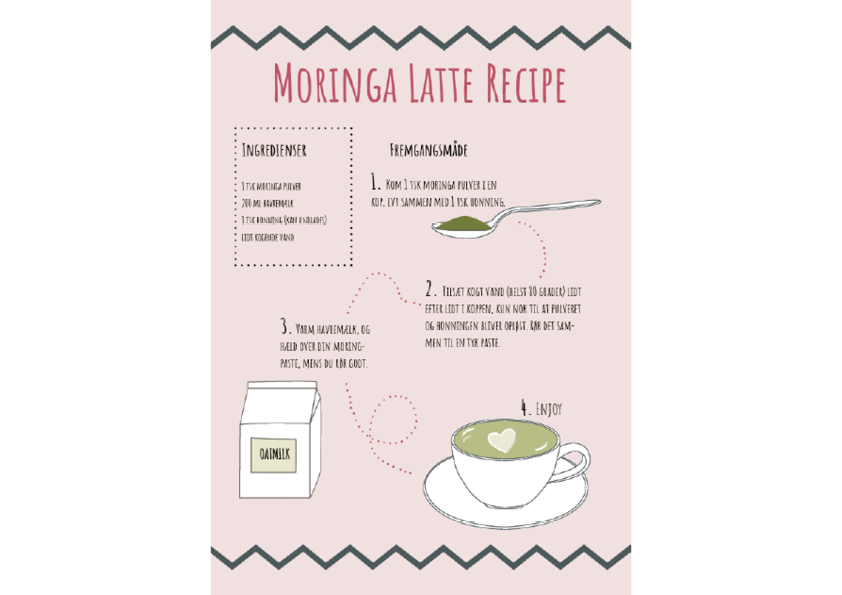
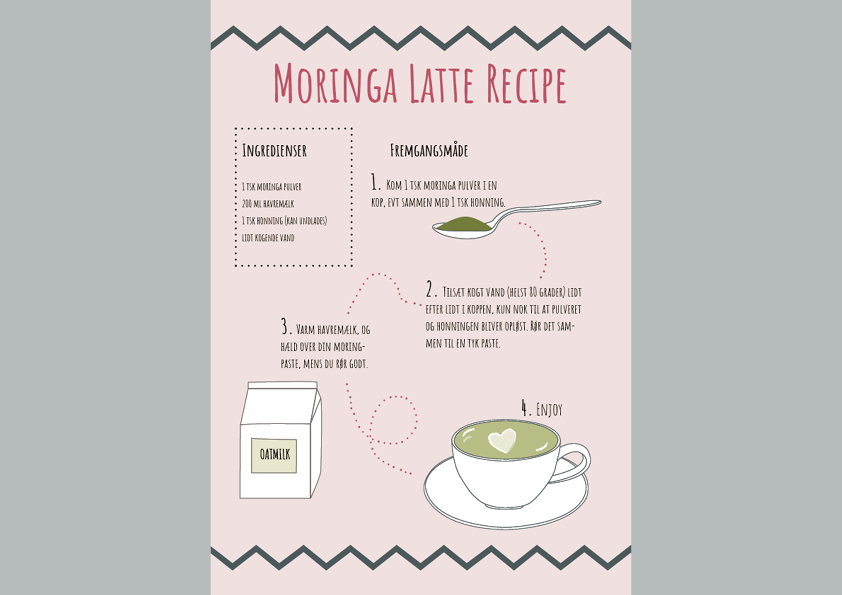
hsfjfd

diff --git a/index.html b/index.html
@@ -71,28 +71,30 @@
 
         </section>
         <section id="opskrift/fordele" class="row">
-            <div id="carouselExampleIndicators" class="carousel slide" data-ride="carousel">
-                <ol class="carousel-indicators">
-                    <li data-target="#carouselExampleIndicators" data-slide-to="0" class="active"></li>
-                    <li data-target="#carouselExampleIndicators" data-slide-to="1"></li>
+            <div class="col-12 col-sm-12 col-md-6 col-lg-6 col-xl-6">
+                <div id="carouselExampleIndicators" class="carousel slide" data-ride="carousel">
+                    <ol class="carousel-indicators">
+                        <li data-target="#carouselExampleIndicators" data-slide-to="0" class="active"></li>
+                        <li data-target="#carouselExampleIndicators" data-slide-to="1"></li>
 
-                </ol>
-                <div class="carousel-inner">
-                    <div class="carousel-item active">
-                        <img class="d-block w-100" src="img/slide.png" alt="First slide">
+                    </ol>
+                    <div class="carousel-inner">
+                        <div class="carousel-item active">
+                            <img class="d-block w-100" src="img/slide.png" alt="First slide">
+                        </div>
+                        <div class="carousel-item">
+                            <img class="d-block w-100" src="img/slide2.png" alt="Second slide">
+                        </div>
                     </div>
-                    <div class="carousel-item">
-                        <img class="d-block w-100" src="img/slide2.png" alt="Second slide">
-                    </div>
-                </div>
-                <a class="carousel-control-prev" href="#carouselExampleIndicators" role="button" data-slide="prev">
+                    <a class="carousel-control-prev" href="#carouselExampleIndicators" role="button" data-slide="prev">
                     <span class="carousel-control-prev-icon" aria-hidden="true"></span>
                     <span class="sr-only">Previous</span>
                 </a>
-                <a class="carousel-control-next" href="#carouselExampleIndicators" role="button" data-slide="next">
+                    <a class="carousel-control-next" href="#carouselExampleIndicators" role="button" data-slide="next">
                     <span class="carousel-control-next-icon" aria-hidden="true"></span>
                     <span class="sr-only">Next</span>
                 </a>
+                </div>
             </div>
         </section>
 

diff --git a/style.css b/style.css
@@ -1,31 +1,41 @@
 /*Style.css - til dine custom styles*/
 
-img{
+* {
+    background: #b5bcbc;
+}
+
+img {
     width: 100%;
 }
 
-#voresis{
+#voresis {
     text-align: center;
 }
-#voresis .col-xs-12{
+
+#voresis .col-xs-12 {
     margin-bottom: 2em;
 }
 
-#tilbud div{
-        margin-bottom: 2em;
+#tilbud div {
+    margin-bottom: 2em;
 }
+
 section {
     padding: 2em 0;
 }
-#hero{
+
+#hero {
     background-color: azure;
 }
-#voresis{
+
+#voresis {
     background-color: lightyellow;
 }
-#tilbud{
+
+#tilbud {
     background-color: burlywood;
 }
-#omos{
+
+#omos {
     background-color: lavender;
 }
